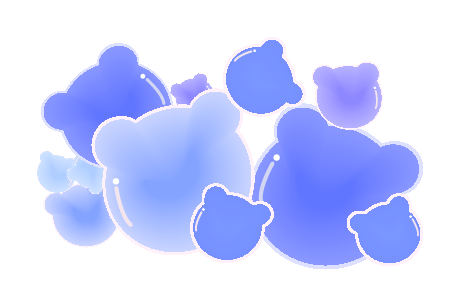
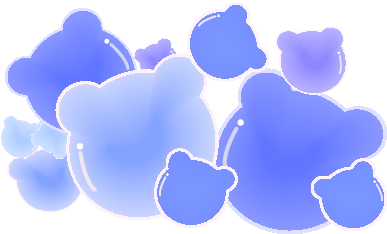
P2: Clearing unused assets

diff --git a/projects/project-02/final/css/style.css b/projects/project-02/final/css/style.css
@@ -224,9 +224,9 @@ button:active {
 }
 
 #claw-machine-toy {
-  left: 26%;
+  right: 60px;
   bottom: 39%;
-  opacity: 0.8;
+  opacity: 0.6;
 }
 
 
@@ -248,6 +248,8 @@ button:active {
 }
 
 #handle-box-collider {
+  display: flex;
+  justify-content: center;
   width: 100%;
   height: 75px;
   background: red;
@@ -320,8 +322,7 @@ button:active {
 }
 
 .grabbed{
-  /* position: relative; */
-  background:blue;
+   background:blue;
   top: unset;
   left: unset;
 }

diff --git a/projects/project-02/final/index.html b/projects/project-02/final/index.html
@@ -96,7 +96,7 @@
 
       </p>
       <div id="main-body">
-        <img src="assets/images/claw-machines/toys-0.png" alt="" id="claw-machine-toy">
+        <img src="assets/images/claw-machines/toys-3.png" alt="" id="claw-machine-toy">
         <div id="claw-machine-handle-container">
           <img id="claw-machine-handle" src="assets/images/claw-machines/claw-0.png" alt="" srcset="">
           <div id="handle-box-collider"></div>
